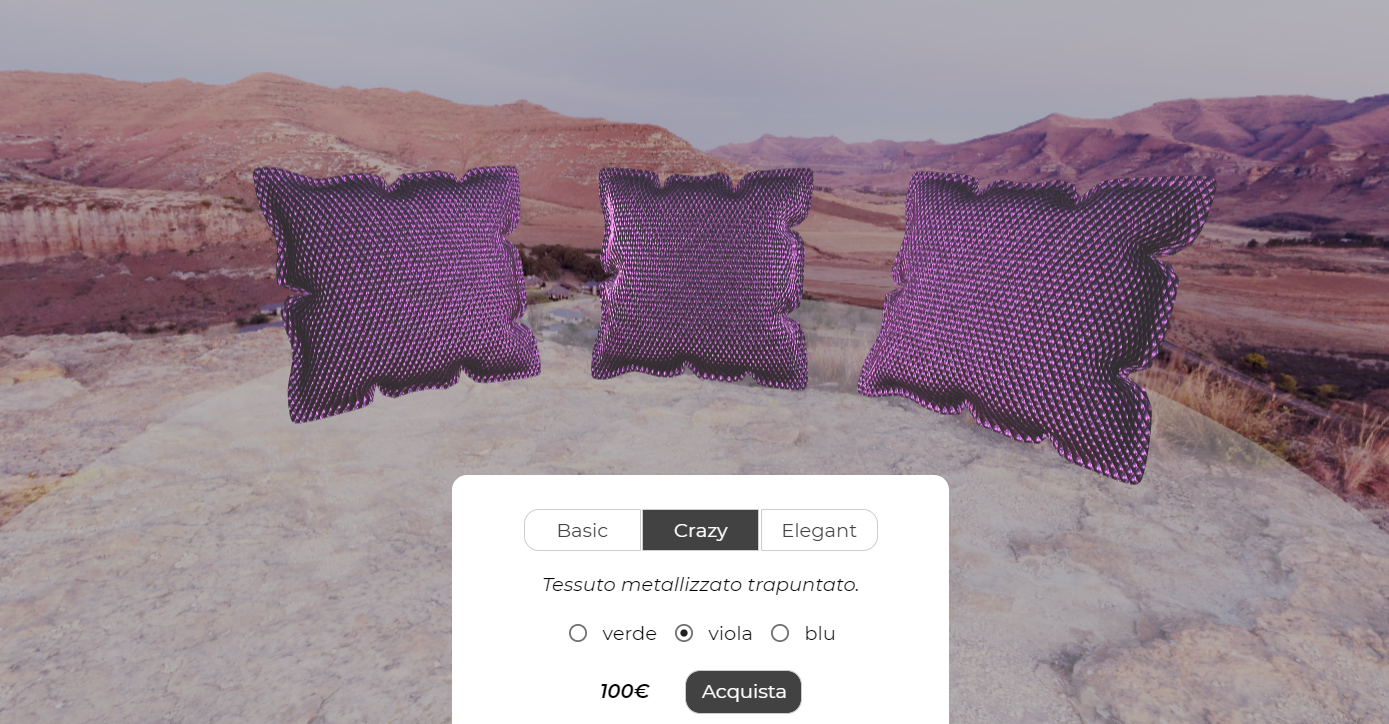
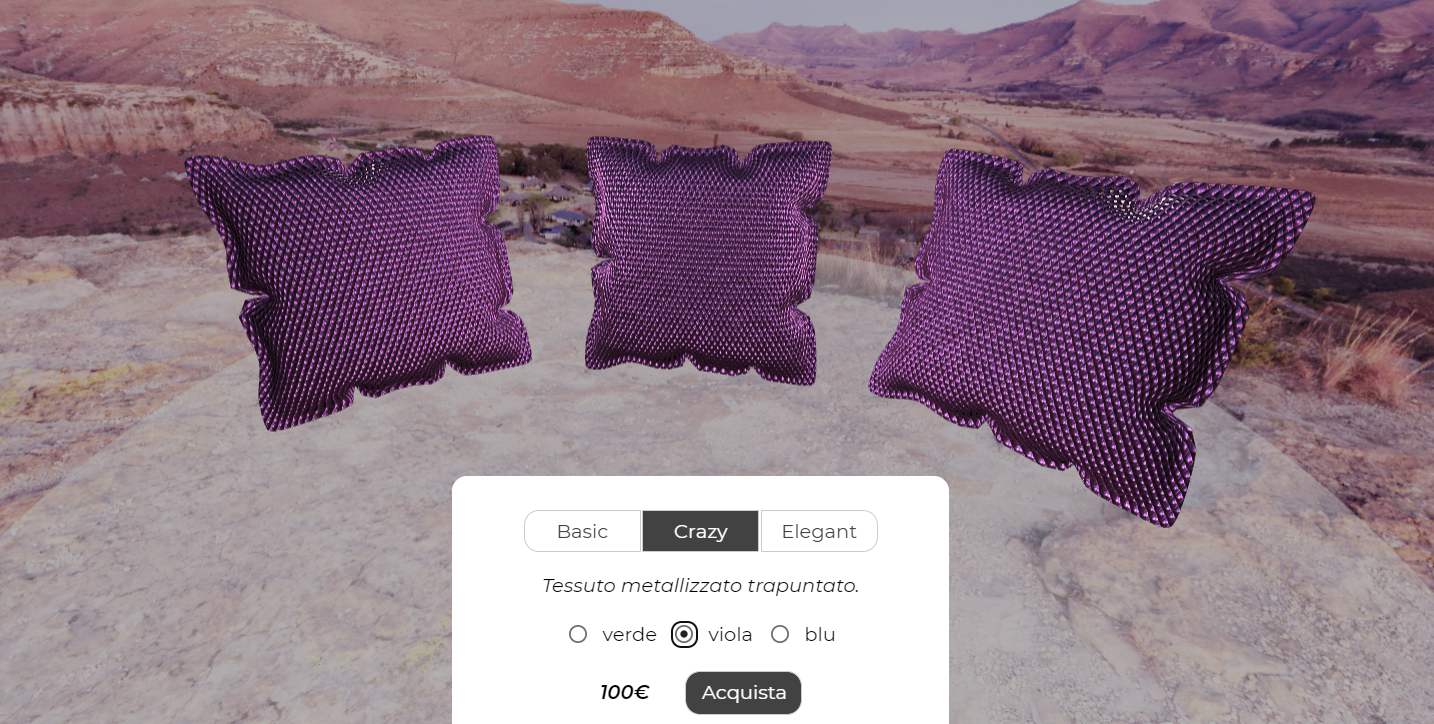
Eliminata da shader shiny texture ao che non serve

diff --git a/index.html b/index.html
@@ -176,10 +176,8 @@
 			uniform vec3 ambientLight;
 			uniform vec3 clight;
 			uniform vec3 cspec;
-			uniform vec3 cdiff;
 			
 			// uniform texture
-			uniform sampler2D aoMap;
 			uniform sampler2D normalMap;
 			uniform sampler2D roughnessMap;
 			uniform samplerCube envMap;
@@ -206,7 +204,6 @@
 				return G1(nDotl,alpha)*G1(nDotv,alpha);
 			}
 
-			// funzione per ...
 			// http://en.wikibooks.org/wiki/GLSL_Programming/Applying_Matrix_Transformations
 			vec3 inverseTransformDirection( in vec3 dir, in mat4 matrix ) {
 				return normalize( ( vec4( dir, 0.0 ) * matrix ).xyz );
@@ -264,7 +261,7 @@
 					BRDFtotale += PI * BRDF * clight * nDotl;
 				}
 
-				vec3 outRadiance =  envLight * BRDFtotale + ambientLight*cdiff*texture2D( aoMap, uVv * textureRepeat ).xyz;
+				vec3 outRadiance =  envLight * BRDFtotale;
 				
 				// gamma encoding
 				gl_FragColor = vec4(pow( outRadiance, vec3(1.0/2.2)), 1.0);
@@ -346,7 +343,7 @@
 
 				// vettore riflessione
 				vec3 r = normalize( reflect(-worldV,worldN));
-				
+
 				vec3 envLight = textureCube( envMap, r).rgb;
 				envLight = pow( envLight, vec3(2.2)); // linearizzo la texture
 
@@ -475,10 +472,8 @@
 		};
 
 		var uniformsShiny = {
-				cspec:	{ type: "v3", value: new THREE.Vector3(0.6,0.6,0.2) }, 
-				cdiff: {type: "v3", value: new THREE.Vector3(0.05,0.05,0.05)},
+				cspec:	{ type: "v3", value: new THREE.Vector3(0.6,0.6,0.2) },
 				roughnessMap:	{ type: "t", value: roughnessMapShiny},
-				aoMap:	{ type: "t", value: aoMapShiny},
 				envMap:	{ type: "t", value: textureCubeSunset},
 				textureRepeat: { type: "v2", value: new THREE.Vector2(6,6)},
 				normalMap:	{ type: "t", value: normalMapShiny},
